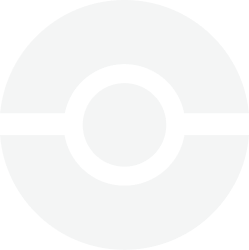
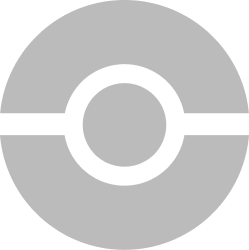
[UI] Type colours

diff --git a/storybook/stories/index.tsx b/storybook/stories/index.tsx
@@ -12,7 +12,7 @@ const style = StyleSheet.create({
     justifyContent: "center",
     alignItems: "center",
     backgroundColor: "#F5FCFF",
-    marginTop: 150
+    marginTop: 40
   }
 });
 
@@ -41,6 +41,69 @@ const DATA = [
     sprite:
       "https://raw.githubusercontent.com/PokeAPI/sprites/master/sprites/pokemon/3.png",
     types: ["grass", "poison"]
+  },
+  {
+    id: 4,
+    name: "Charmander",
+    sprite:
+      "https://raw.githubusercontent.com/PokeAPI/sprites/master/sprites/pokemon/4.png",
+    types: ["fire"]
+  },
+  {
+    id: 5,
+    name: "Charmeleon",
+    sprite:
+      "https://raw.githubusercontent.com/PokeAPI/sprites/master/sprites/pokemon/5.png",
+    types: ["fire"]
+  },
+  {
+    id: 6,
+    name: "Charizard",
+    sprite:
+      "https://raw.githubusercontent.com/PokeAPI/sprites/master/sprites/pokemon/6.png",
+    types: ["fire"]
+  },
+  {
+    id: 107,
+    name: "Hitmonchan",
+    sprite:
+      "https://raw.githubusercontent.com/PokeAPI/sprites/master/sprites/pokemon/107.png",
+    types: ["fighting"]
+  },
+  {
+    id: 150,
+    name: "Mewtwo",
+    sprite:
+      "https://raw.githubusercontent.com/PokeAPI/sprites/master/sprites/pokemon/150.png",
+    types: ["psychic"]
+  },
+  {
+    id: 35,
+    name: "Clefairy",
+    sprite:
+      "https://raw.githubusercontent.com/PokeAPI/sprites/master/sprites/pokemon/35.png",
+    types: ["fairy"]
+  },
+  {
+    id: 25,
+    name: "Pikachu",
+    sprite:
+      "https://raw.githubusercontent.com/PokeAPI/sprites/master/sprites/pokemon/25.png",
+    types: ["electric"]
+  },
+  {
+    id: 93,
+    name: "Haunter",
+    sprite:
+      "https://raw.githubusercontent.com/PokeAPI/sprites/master/sprites/pokemon/93.png",
+    types: ["ghost"]
+  },
+  {
+    id: 304,
+    name: "Aron",
+    sprite:
+      "https://raw.githubusercontent.com/PokeAPI/sprites/master/sprites/pokemon/304.png",
+    types: ["steel", "ground"]
   }
 ];
 
@@ -63,7 +126,7 @@ storiesOf("Atoms", module).add(
           justifyContent: "space-evenly"
         }}
       >
-        <TouchablePill type="leaf" text="Send" onPress={() => {}} />
+        <TouchablePill type="grass" text="Send" onPress={() => {}} />
         <TouchablePill type="dark" text="Nudes" onPress={() => {}} />
       </View>
       <View
@@ -95,9 +158,15 @@ storiesOf("Atoms", module).add(
 );
 
 storiesOf("Atoms", module).add("PokemonItem", () => (
-  <CenteredView>
-    <PokemonItem pokemon={DATA[0]} />
-  </CenteredView>
+  <View style={{ marginTop: 100 }}>
+    {DATA.map(pokemon => (
+      <PokemonItem
+        pokemon={pokemon}
+        style={{ width: 150 }}
+        onPress={() => {}}
+      />
+    ))}
+  </View>
 ));
 
 storiesOf("Molecules", module).add("PokemonList", () => (

diff --git a/src/Components/Atoms/PokemonItem/PokemonItem.tsx b/src/Components/Atoms/PokemonItem/PokemonItem.tsx
@@ -1,39 +1,68 @@
 import React from "react";
-import { View, Text, Image } from "react-native";
+import {
+  View,
+  Text,
+  Image,
+  StyleProp,
+  ViewStyle,
+  TouchableOpacity
+} from "react-native";
 import { PokeDexListItem } from "../../../Domains/Pokemon/types";
+import Styles from "./PokemonItem.styles";
+import { BaseStyles } from "../BaseStyles";
+import { Images, Colours } from "../../../../assets";
+import { material } from "react-native-typography";
 
 interface Props {
   pokemon: PokeDexListItem;
+  onPress(): void;
+  style?: StyleProp<ViewStyle>;
 }
 
 export default function PokemonItem(props: Props) {
+  const titleType = `${props.pokemon.types[0]
+    .charAt(0)
+    .toUpperCase()}${props.pokemon.types[0].substring(1)}`;
+
+  const BackgroundColour = Colours[titleType];
+
   return (
-    <View
-      style={{
-        flexDirection: "column",
-        borderRadius: 8,
-        backgroundColor: "#46D0A7",
-        padding: 15
-      }}
+    <TouchableOpacity
+      onPress={props.onPress}
+      style={[{ padding: 5 }, BaseStyles.shadow]}
     >
       <View
-        style={{
-          flexDirection: "row",
-          alignContent: "center",
-          justifyContent: "center"
-        }}
+        style={[
+          Styles.container,
+          props.style,
+          { backgroundColor: BackgroundColour }
+        ]}
       >
-        <View style={{ flexDirection: "column" }}>
-          <Text>{props.pokemon.id}</Text>
-          {props.pokemon.types.map(type => (
-            <Text>{type}</Text>
+        <View style={Styles.column}>
+          <Text
+            style={[
+              material.buttonWhiteObject,
+              Styles.name,
+              { marginBottom: 3 }
+            ]}
+          >
+            {props.pokemon.name}
+          </Text>
+          {props.pokemon.types.map((type: string, index: number) => (
+            <View style={Styles.type} key={`${index}_${type}`}>
+              <Text style={[material.body1White, Styles.typeText]}>{type}</Text>
+            </View>
           ))}
         </View>
-        <Image
-          source={{ uri: props.pokemon.sprite }}
-          style={{ height: 50, width: 50, alignSelf: "flex-end" }}
-        />
+        <View style={{ position: "absolute", bottom: -10, right: -10 }}>
+          <Image source={Images.Subtract} style={[Styles.lowerRightPokeball]} />
+          <Image
+            source={{ uri: props.pokemon.sprite }}
+            style={Styles.image}
+            resizeMode="stretch"
+          />
+        </View>
       </View>
-    </View>
+    </TouchableOpacity>
   );
 }

diff --git a/src/Components/Atoms/PokemonItem/PokemonItem.styles.ts b/src/Components/Atoms/PokemonItem/PokemonItem.styles.ts
@@ -1,0 +1,46 @@
+import { StyleSheet } from "react-native";
+import { Colours } from "../../../../assets";
+
+export default StyleSheet.create({
+  container: {
+    flexDirection: "column",
+    borderRadius: 8,
+    backgroundColor: "#46D0A7",
+    padding: 15,
+    minHeight: 110,
+    minWidth: 130,
+    overflow: "hidden"
+  },
+  row: {
+    flexDirection: "row",
+    alignContent: "center",
+    justifyContent: "center"
+  },
+  column: { flexDirection: "column" },
+  image: { height: 90, width: 90 },
+  type: {
+    marginBottom: 3,
+    width: "40%",
+    padding: 2,
+    justifyContent: "center",
+    alignItems: "center",
+    borderRadius: 8,
+    backgroundColor: "rgba(0, 0, 0, 0.1)"
+  },
+  lowerRightPokeball: {
+    height: 90,
+    width: 90,
+    position: "absolute",
+    tintColor: Colours.White,
+    opacity: 0.3
+  },
+  name: {
+    fontSize: 19,
+    width: "100%",
+    textAlignVertical: "center"
+  },
+  typeText: {
+    fontSize: 13,
+    textAlignVertical: "center"
+  }
+});

diff --git a/src/Components/Atoms/TouchablePill/TouchablePill.tsx b/src/Components/Atoms/TouchablePill/TouchablePill.tsx
@@ -15,7 +15,7 @@ import { BaseStyles } from "../BaseStyles";
 interface Props {
   text: string;
   onPress(): void;
-  type: "leaf" | "fire" | "water" | "electric" | "dark" | "ground";
+  type: "grass" | "fire" | "water" | "electric" | "dark" | "ground";
   style?: StyleProp<ViewStyle>;
 }
 
@@ -40,8 +40,8 @@ export default function TouchablePill(props: Props) {
           props.style
         ]}
       >
-        <Image source={Images.Subtract} style={Styles.upperLeftPokeball} />
-        <Image source={Images.Subtract} style={Styles.lowerRightPokeball} />
+        <Image source={Images.Subtract} style={[Styles.upperLeftPokeball]} />
+        <Image source={Images.Subtract} style={[Styles.lowerRightPokeball]} />
         <Text style={[material.buttonWhiteObject, Styles.text]}>
           {props.text}
         </Text>

diff --git a/src/Components/Molecules/PokemonList/PokemonList.tsx b/src/Components/Molecules/PokemonList/PokemonList.tsx
@@ -11,20 +11,19 @@ interface State {}
 
 export default class PokemonList extends Component<Props, State> {
   renderPokemon = ({ item }: { item: PokeDexListItem }) => (
-    <PokemonItem pokemon={item} />
+    <PokemonItem pokemon={item} onPress={() => {}} style={{ minWidth: 165 }} />
   );
 
   render() {
     return (
       <FlatList
-        contentContainerStyle={{
-          flex: 1,
-          width: "100%"
-        }}
-        style={{ flex: 1, width: "100%" }}
         data={this.props.pokemons}
         renderItem={this.renderPokemon}
         numColumns={2}
+        columnWrapperStyle={{
+          alignContent: "space-between",
+          alignItems: "center"
+        }}
         keyExtractor={(item: PokeDexListItem, index: number) =>
           `${item.id}_${index}`
         }

diff --git a/src/Components/Atoms/TouchablePill/TouchablePill.styles.ts b/src/Components/Atoms/TouchablePill/TouchablePill.styles.ts
@@ -1,4 +1,5 @@
 import { StyleSheet } from "react-native";
+import { Colours } from "../../../../assets";
 
 export default StyleSheet.create({
   container: {
@@ -25,14 +26,22 @@ export default StyleSheet.create({
     width: 90,
     position: "absolute",
     top: -50,
-    left: -65
+    left: -65,
+    tintColor: Colours.White,
+    opacity: 0.1
   },
   lowerRightPokeball: {
     height: 90,
     width: 90,
     position: "absolute",
     right: -30,
-    bottom: -45
+    bottom: -45,
+    tintColor: Colours.White,
+    opacity: 0.1
   },
-  text: { fontSize: 19, width: "100%", textAlignVertical: "center" }
+  text: {
+    fontSize: 19,
+    width: "100%",
+    textAlignVertical: "center"
+  }
 });

diff --git a/assets/index.ts b/assets/index.ts
@@ -3,10 +3,22 @@ export const Images = {
 };
 
 export const Colours = {
-  Leaf: "#46D0A7",
-  Fire: "#D1938C",
+  // Containers
+  Grass: "#46D0A7",
+  Fire: "#FB6C6C",
   Water: "#77C4FE",
   Ground: "#D1938C",
   Dark: "#A06EB4",
-  Electric: "#FFCE4B"
+  Electric: "#FFCE4B",
+  Poison: "#A06EB4",
+  Psychic: "#FA92B2",
+  Steel: "#D1D1E0",
+  Bug: "#C6D16E",
+  Fighting: "#D67873",
+  Fairy: "#F4BDC9",
+  Ghost: "#A292BC",
+
+  // MISC.
+  PokeballTint: "#303943",
+  White: "#FFFFFF"
 };
